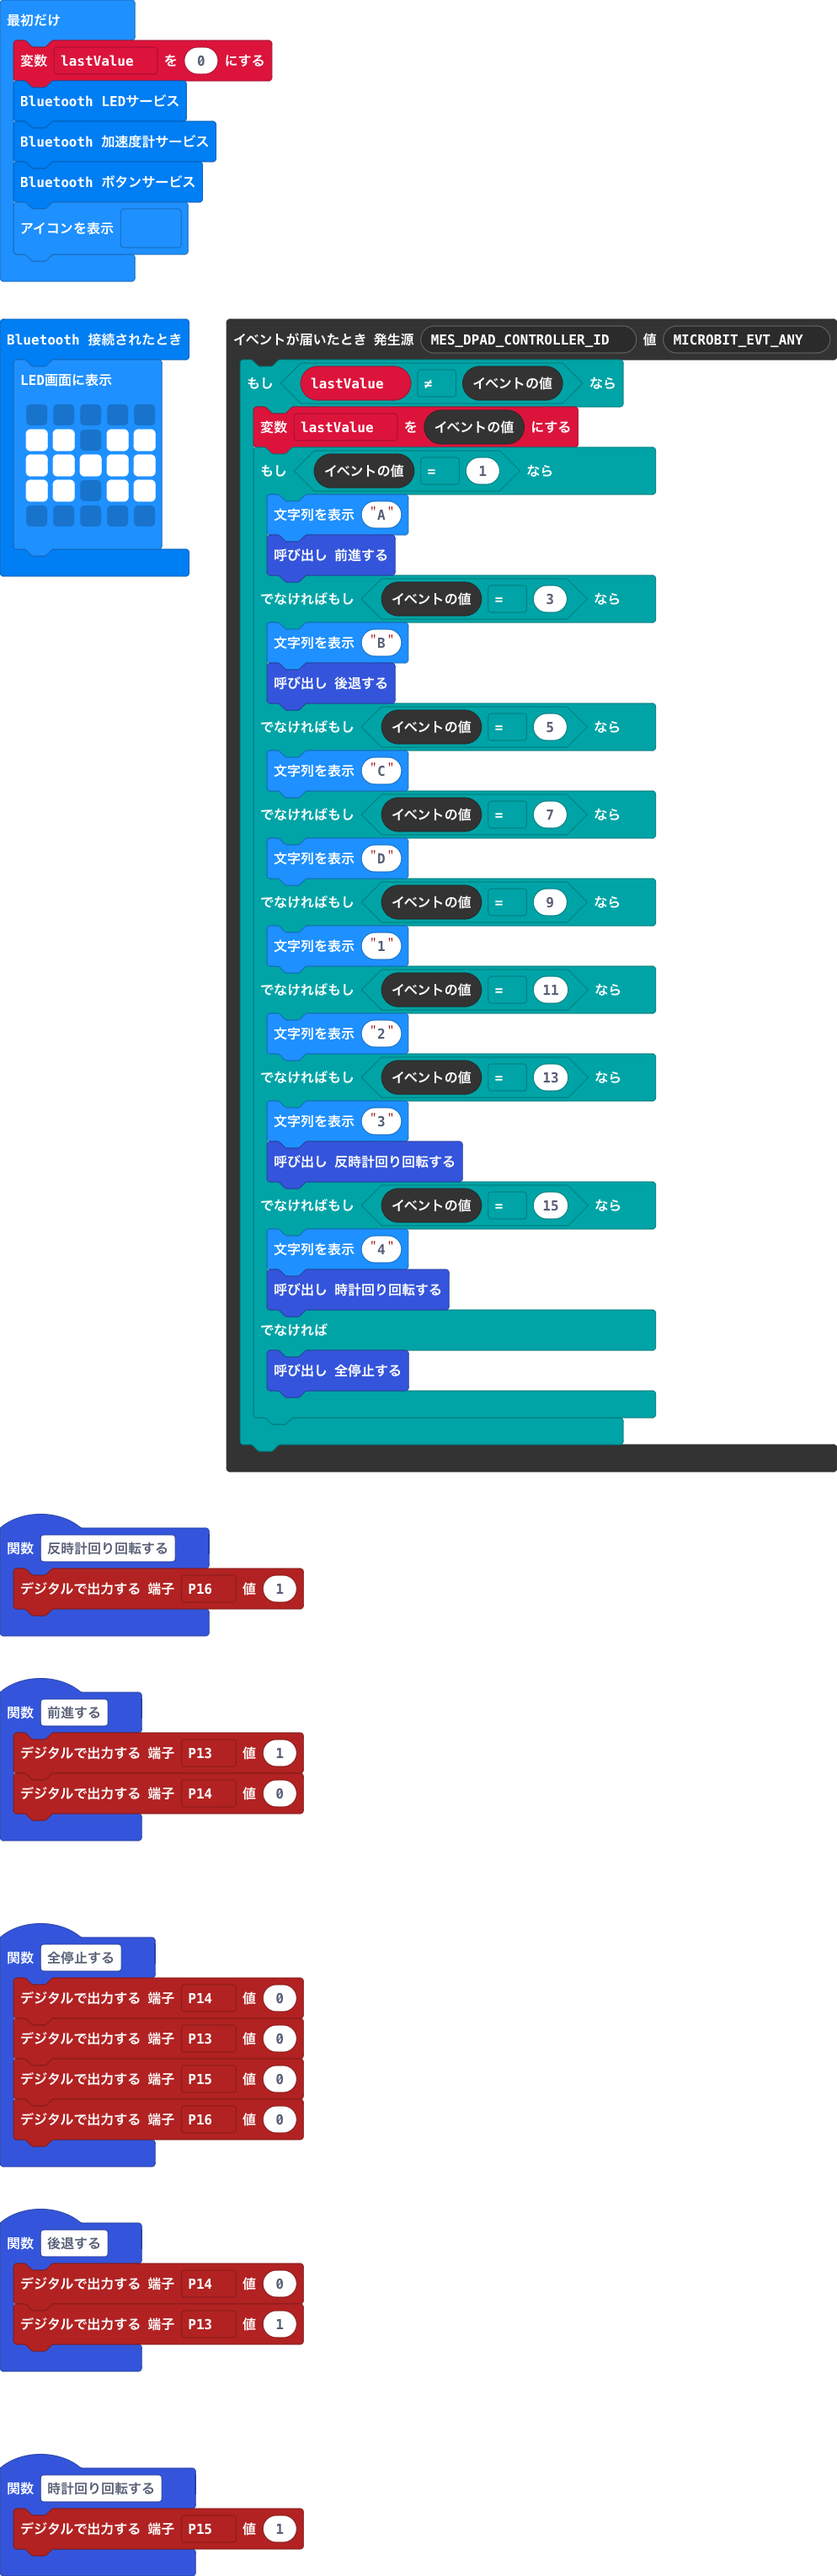
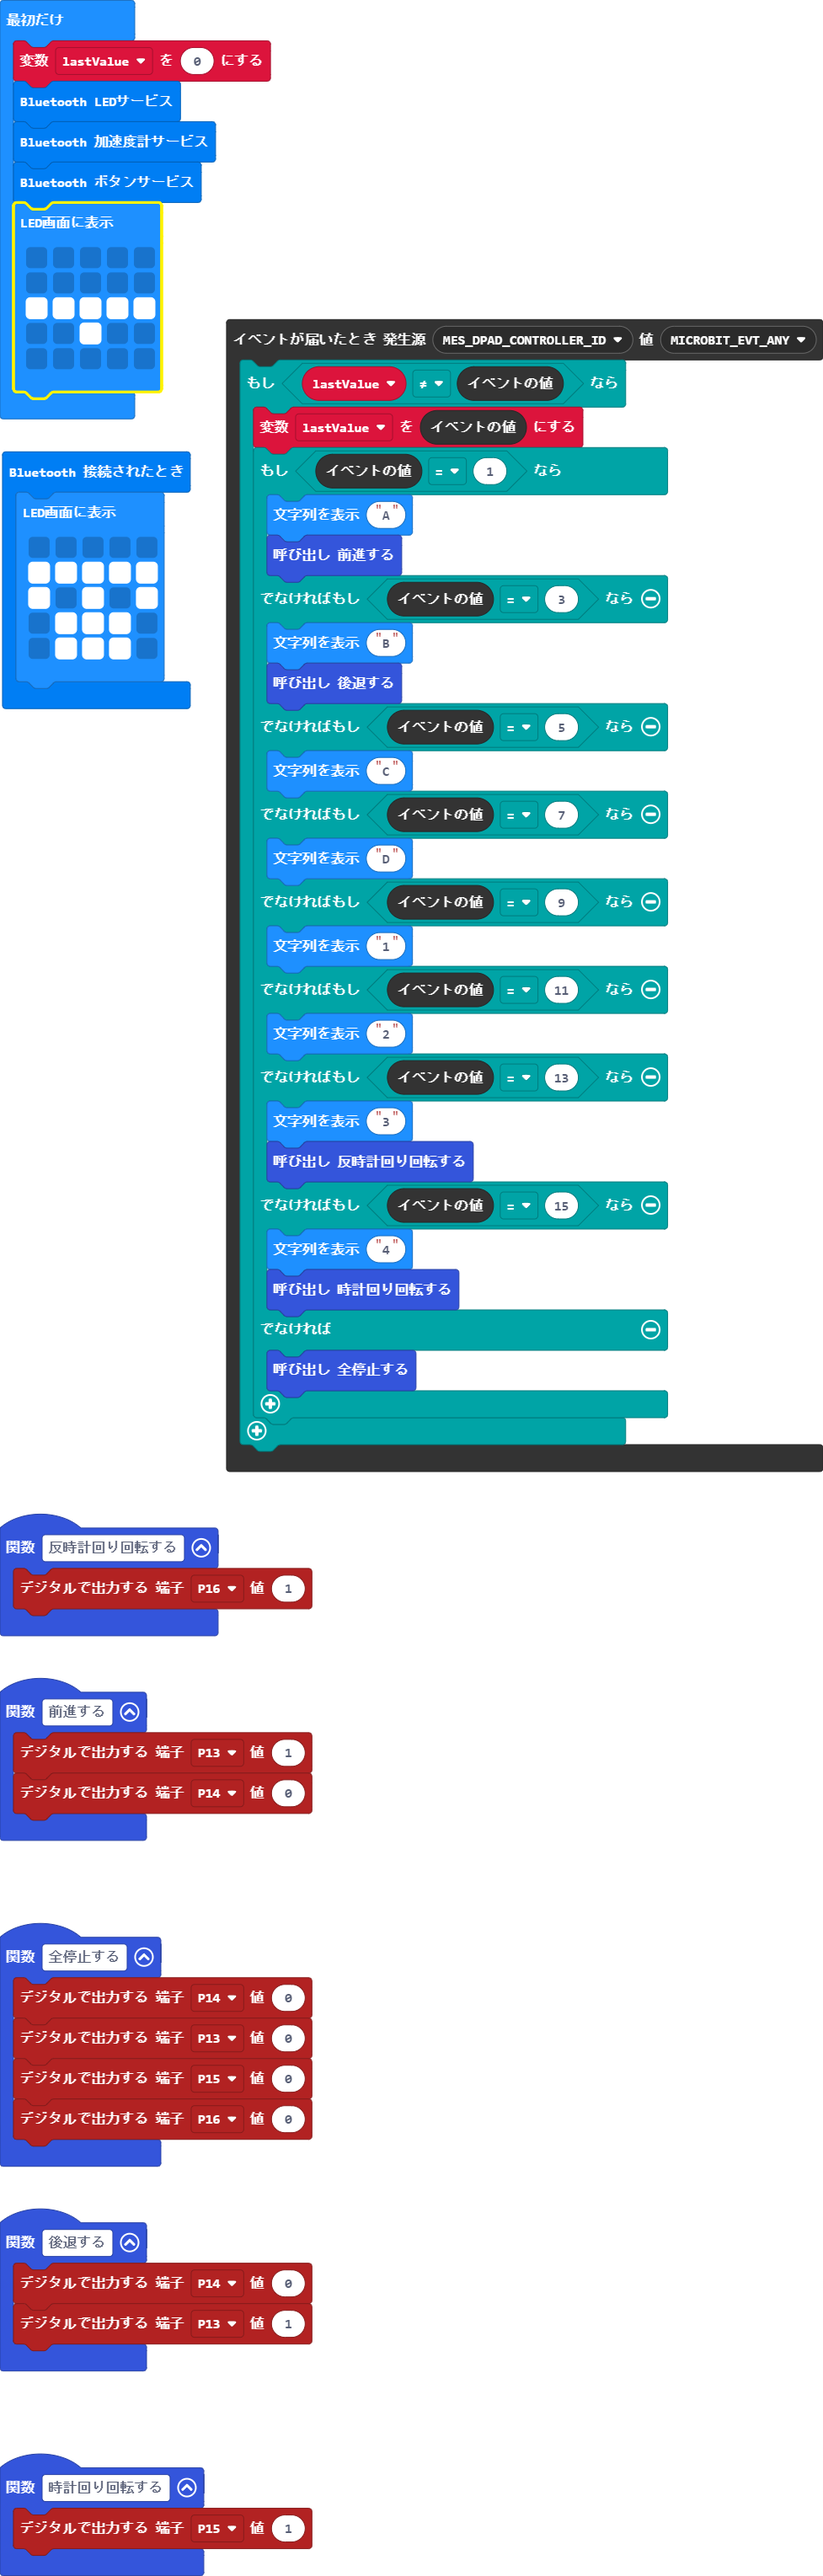
初期LED、BLE接続後LEDを変更する

diff --git a/main.ts b/main.ts
@@ -8,10 +8,10 @@ function 前進する () {
 bluetooth.onBluetoothConnected(function () {
     basic.showLeds(`
         . . . . .
-        # # . # #
         # # # # #
-        # # . # #
-        . . . . .
+        # . # . #
+        . # # # .
+        . # # # .
         `)
 })
 function 全停止する () {
@@ -60,4 +60,10 @@ lastValue = 0
 bluetooth.startLEDService()
 bluetooth.startAccelerometerService()
 bluetooth.startButtonService()
-basic.showIcon(IconNames.Asleep)
+basic.showLeds(`
+    . . . . .
+    . . . . .
+    # # # # #
+    . . # . .
+    . . . . .
+    `)
